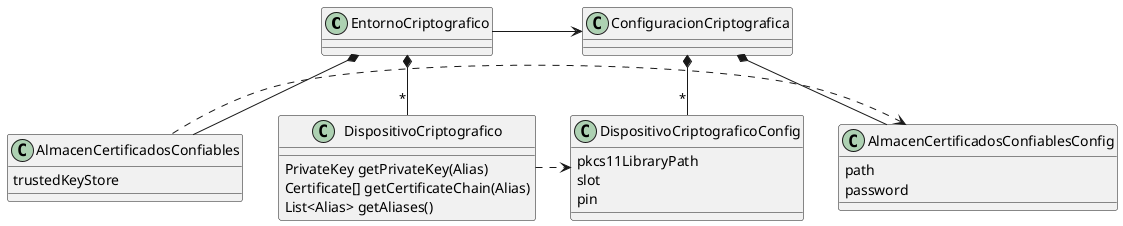
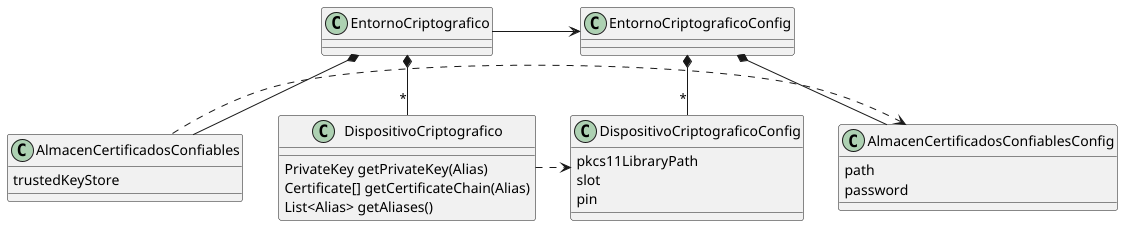
Refactorizar nombre de clase

diff --git a/src/main/java/com/educaflow/apps/secretariavirtual/module/SecretariaVirtualModule.java b/src/main/java/com/educaflow/apps/secretariavirtual/module/SecretariaVirtualModule.java
@@ -5,7 +5,7 @@ import com.axelor.app.AvailableAppSettings;
 import com.axelor.app.AxelorModule;
 import com.educaflow.common.criptografia.EntornoCriptografico;
 import com.educaflow.common.criptografia.config.AlmacenCertificadosConfiablesConfig;
-import com.educaflow.common.criptografia.config.ConfiguracionCriptografica;
+import com.educaflow.common.criptografia.config.EntornoCriptograficoConfig;
 import com.educaflow.common.criptografia.config.DispositivoCriptograficoConfig;
 import com.educaflow.common.db.BulkTables;
 
@@ -19,9 +19,8 @@ public class SecretariaVirtualModule extends AxelorModule {
     protected void configure() {
 
 
-        ConfiguracionCriptografica configuracionCriptografica = getConfiguracionCriptograficaFromAppSettings();
-
-        EntornoCriptografico.configure(configuracionCriptografica);
+        EntornoCriptograficoConfig entornoCriptograficoConfig = getEntornoCriptograficoConfigFromAppSettings();
+        EntornoCriptografico.configure(entornoCriptograficoConfig);
 
 
         String dataBaseDriver = AppSettings.get().get(AvailableAppSettings.DB_DEFAULT_DRIVER);
@@ -37,7 +36,7 @@ public class SecretariaVirtualModule extends AxelorModule {
         bulkTables.truncateTables(dataBaseDriver,dataBaseURL,dataBaseUser,dataBasePassword,schemaName,tablasExcluidas,tablasIncluidas);
     }
 
-    public ConfiguracionCriptografica getConfiguracionCriptograficaFromAppSettings()  {
+    public EntornoCriptograficoConfig getEntornoCriptograficoConfigFromAppSettings()  {
 
         Path pathAlmacen = Path.of(AppSettings.get().get("entornoCriptografico.almacenCertificadosConfiables.path"));
         String passwordAlmacen = AppSettings.get().get("entornoCriptografico.almacenCertificadosConfiables.password");
@@ -54,7 +53,7 @@ public class SecretariaVirtualModule extends AxelorModule {
             indice++;
         }
 
-        return new ConfiguracionCriptografica(almacenConfig, dispositivos);
+        return new EntornoCriptograficoConfig(almacenConfig, dispositivos);
     }
 
 

diff --git a/src/main/java/com/educaflow/common/criptografia/EntornoCriptografico.java b/src/main/java/com/educaflow/common/criptografia/EntornoCriptografico.java
@@ -1,11 +1,10 @@
 package com.educaflow.common.criptografia;
 
 import com.educaflow.common.criptografia.config.AlmacenCertificadosConfiablesConfig;
-import com.educaflow.common.criptografia.config.ConfiguracionCriptografica;
+import com.educaflow.common.criptografia.config.EntornoCriptograficoConfig;
 import com.educaflow.common.criptografia.config.DispositivoCriptograficoConfig;
 import org.bouncycastle.jce.provider.BouncyCastleProvider;
 
-import java.io.File;
 import java.io.InputStream;
 import java.nio.file.Files;
 import java.nio.file.Path;
@@ -24,19 +23,19 @@ public class EntornoCriptografico {
 
 
 
-    public static void configure(ConfiguracionCriptografica configuracionCriptografica) {
+    public static void configure(EntornoCriptograficoConfig entornoCriptograficoConfig) {
         if (configured) {
             throw new RuntimeException("El entorno criptográfico ya ha sido configurado");
         }
 
         Security.addProvider(new BouncyCastleProvider());
 
-        if (configuracionCriptografica == null) {
+        if (entornoCriptograficoConfig == null) {
             almacenCertificadosConfiables=new AlmacenCertificadosConfiables(null);
             dispositivosCriptograficos=new HashMap<>();
         } else {
-            AlmacenCertificadosConfiablesConfig almacenCertificadosConfiablesConfig=configuracionCriptografica.getAlmacenCertificadosConfiablesConfig();
-            List<DispositivoCriptograficoConfig> dispositivoCritograficoConfigs=configuracionCriptografica.getDispositivoCritograficoConfigs();
+            AlmacenCertificadosConfiablesConfig almacenCertificadosConfiablesConfig= entornoCriptograficoConfig.getAlmacenCertificadosConfiablesConfig();
+            List<DispositivoCriptograficoConfig> dispositivoCritograficoConfigs= entornoCriptograficoConfig.getDispositivoCritograficoConfigs();
 
 
             if (almacenCertificadosConfiablesConfig == null) {

diff --git a/src/main/java/com/educaflow/common/criptografia/config/EntornoCriptograficoConfig.java b/src/main/java/com/educaflow/common/criptografia/config/EntornoCriptograficoConfig.java
@@ -2,12 +2,12 @@ package com.educaflow.common.criptografia.config;
 
 import java.util.List;
 
-public class ConfiguracionCriptografica {
+public class EntornoCriptograficoConfig {
 
     private final AlmacenCertificadosConfiablesConfig almacenCertificadosConfiablesConfig;
     private final List<DispositivoCriptograficoConfig> dispositivoCriptograficoConfigs;
 
-    public ConfiguracionCriptografica(AlmacenCertificadosConfiablesConfig almacenCertificadosConfiablesConfig, List<DispositivoCriptograficoConfig> dispositivoCriptograficoConfigs) {
+    public EntornoCriptograficoConfig(AlmacenCertificadosConfiablesConfig almacenCertificadosConfiablesConfig, List<DispositivoCriptograficoConfig> dispositivoCriptograficoConfigs) {
         this.almacenCertificadosConfiablesConfig = almacenCertificadosConfiablesConfig;
         this.dispositivoCriptograficoConfigs = dispositivoCriptograficoConfigs;
     }
